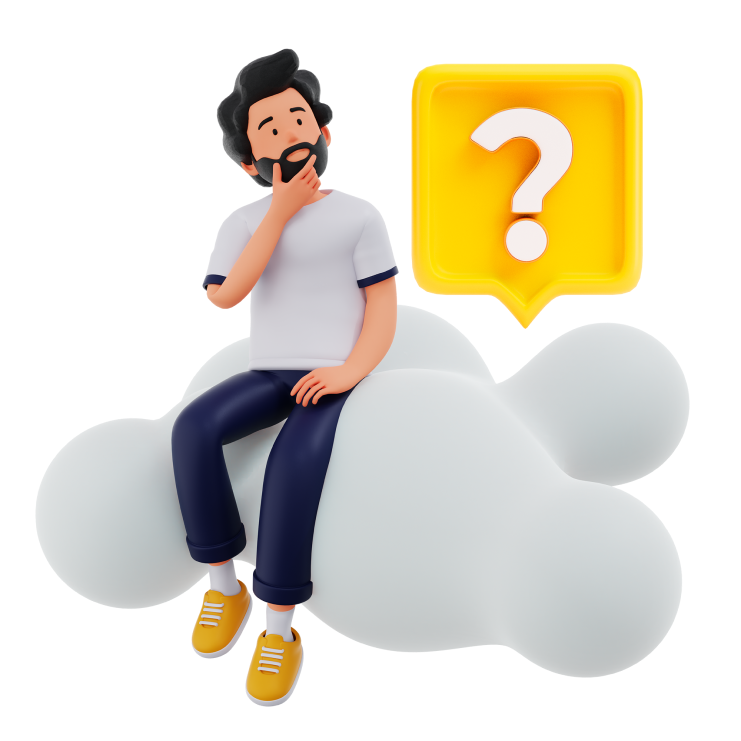
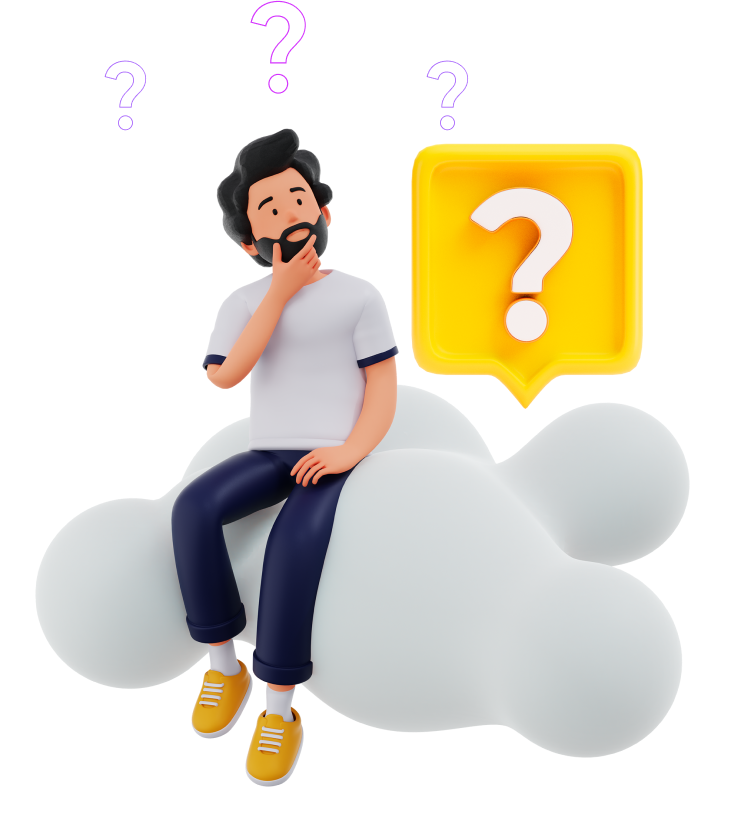
completed faq responsiveness

diff --git a/src/components/faq.tsx b/src/components/faq.tsx
@@ -15,31 +15,29 @@ import FAQ from "./FAQ/page";
 const Faq:React.FC = () => {
     return (
         <div className="border-b w-full border-b-lightGray center relative overflow-hidden min-h-screen lg:py-[5rem]">
-            <div className="w-[85%] h-full between py-20 flex-col lg:flex-row lg:gap-0 gap-32">
+            <div className="w-[85%] h-full between py-20 flex-col lg:flex-row lg:gap-0 gap-10">
                 {/* Left side of the screen */}
-                <div className="lg:w-1/2 flex flex-col items-center lg:items-start gap-6">
-                    <div className="mb-1">
-                        <img src="/images/judgeStar1.png" alt="star" />
+                <div className="lg:w-1/2 flex flex-col items-center lg:items-start gap-6 relative">
+                    <div className="absolute lg:-top-10 -top-4 left-0">
+                        <img src="/images/judgeStar1.png" alt="star" className="lg:w-[30px] w-[15px]" />
                     </div>
                     <FAQ />
                 </div>
 
                 {/* Right side of the screen */}
                 <div className="lg:w-1/2 h-full flex flex-col justify-center relative">
-                    <div className="flex gap-[5rem] absolute -top-20 left-16">
-                        <div className="mt-16">
-                            <img src="/images/question1.png" alt="question" />
-                        </div>
-                        <div>
-                            <img src="/images/question2.png" alt="question" />
-                        </div>
-                        <div className="mt-12">
-                            <img src="/images/question3.png" alt="question" />
-                        </div>
-                    </div>
                     <img src="/images/thinking.png" alt="star" className="h-full object-contain" />
-                    <div className="ended mr-20 ">
-                        <img src="/images/rulesStar2.png" alt="star" className="w-[30px]"  />
+                    <div className="absolute right-10 lg:right-20 lg:-bottom-10 bottom-0">
+                        <img src="/images/rulesStar2.png" alt="star" className="lg:w-[30px] w-[15px]"  />
+                    </div>
+                    <div className="absolute lg:top-[3rem] lg:right-[18rem] top-4 right-[50%]">
+                        <img src="/images/footerM.png" alt="star" className="lg:w-[20px] w-[8px]"/>
+                    </div>
+                    <div className="absolute lg:top-[10rem] lg:left-[7rem] left-[3rem] top-16">
+                        <img src="/images/footerM.png" alt="star" className="lg:w-[18px] w-[10px]" />
+                    </div>
+                    <div className="absolute left-0">
+                        <img src="/images/faqStar.png" alt="star" className="lg:w-[26px] w-[15px]" />
                     </div>
                 </div>
             </div>
@@ -47,12 +45,6 @@ const Faq:React.FC = () => {
             {/* Flares, icons and stars  */}
             <div className="absolute right-0 -top-[30rem]">
                 <img src="/images/judgeFlare2.png" alt="purple flare" className="purpleFlare1" />
-            </div>
-            <div className="absolute top-[8rem] right-[24rem]">
-                <img src="/images/footerM.png" alt="star" />
-            </div>
-            <div className="absolute top-[18rem] right-[35rem]">
-                <img src="/images/footerM.png" alt="star" />
             </div>
         </div>
     );

diff --git a/src/components/FAQ/faqComponent.tsx b/src/components/FAQ/faqComponent.tsx
@@ -26,7 +26,7 @@ const FaqItem:React.FC<FaqItemProps> = ({ question, answer }) => {
   return (
     <div className="w-full flex flex-col border-b-purple border-b">
       <button className="flex justify-between w-full align-center py-5" onClick={toggleOpen}>
-        <span className="font-medium text-left text-[14px]">{question}</span>
+        <span className="font-medium text-left lg:text-[14px] text-sm w-[90%]">{question}</span>
         <img src="/images/plus.png" alt='arrowDown' className={`my-auto transform transition-transform ${isOpen ? 'rotate-180' : 'rotate-0'}`} />
       </button>
       <div className={`${isOpen ? 'block' : 'hidden'}`}>
